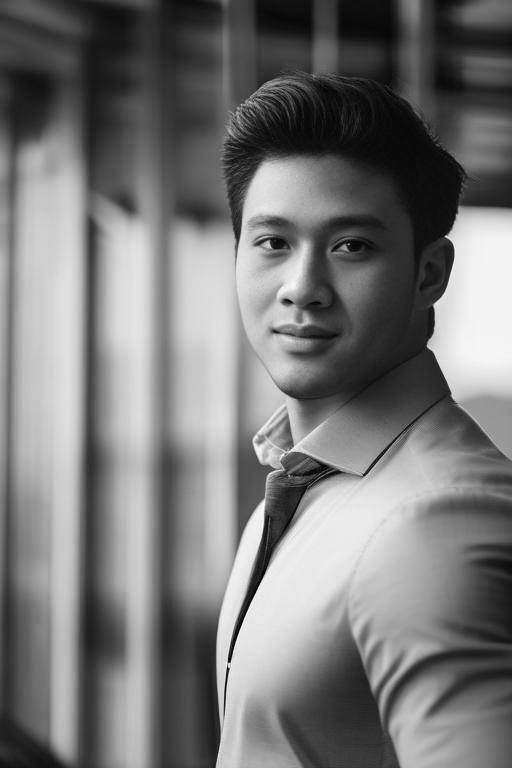
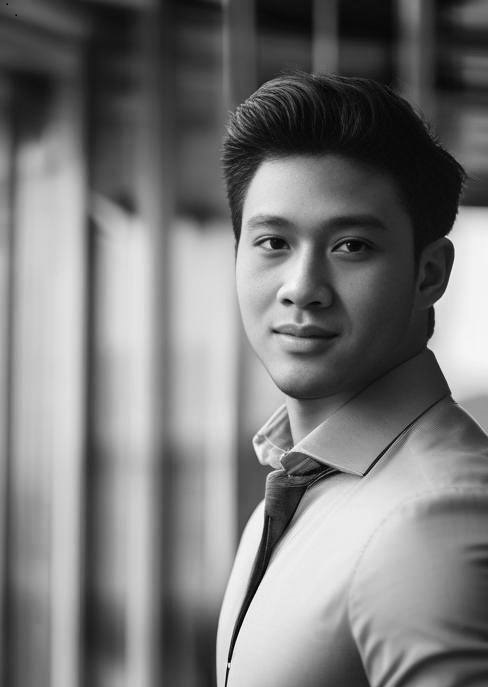
Update IMG

diff --git a/app/components/AboutMe.tsx b/app/components/AboutMe.tsx
@@ -11,7 +11,6 @@ const AboutMe = () => {
             className=" w-full object-fill"
             src="/images/avatar1.jpg"
             alt="javascript"
-            height="500px"
           />
         </div>
 
@@ -38,6 +37,13 @@ const AboutMe = () => {
             functionality across different devices and screen sizes. My
             attention to detail and commitment to delivering high-quality code
             make me valuable in any development project.
+          </p>
+          <p className="mt-3">
+            I complement my development skills with a strong foundation in unit
+            testing and end-to-end testing using tools like Jest for unit tests
+            and Cypress for comprehensive testing. This ensures that not only
+            are my applications feature-rich and visually compelling, but they
+            also meet high standards of reliability and performance.
           </p>
           <p className="mt-3">
             In addition to my technical proficiency, I am a continuous learner

diff --git a/app/components/Skills.tsx b/app/components/Skills.tsx
@@ -15,7 +15,7 @@ const Skills = () => {
     { image: "icon-nodejs.svg", text: "Node.js" },
     { image: "icon-express.svg", text: "Express.js" },
     { image: "icon-mongodb.svg", text: "MongoDB" },
-    { image: "mysql.svg", text: "MySql" },
+    { image: "MySQL.png", text: "MySql" },
     { image: "icon-cypress.svg", text: "Cypress" },
     { image: "jest.svg", text: "Jest.js" },
     { image: "icon-git.svg", text: "Git" },
